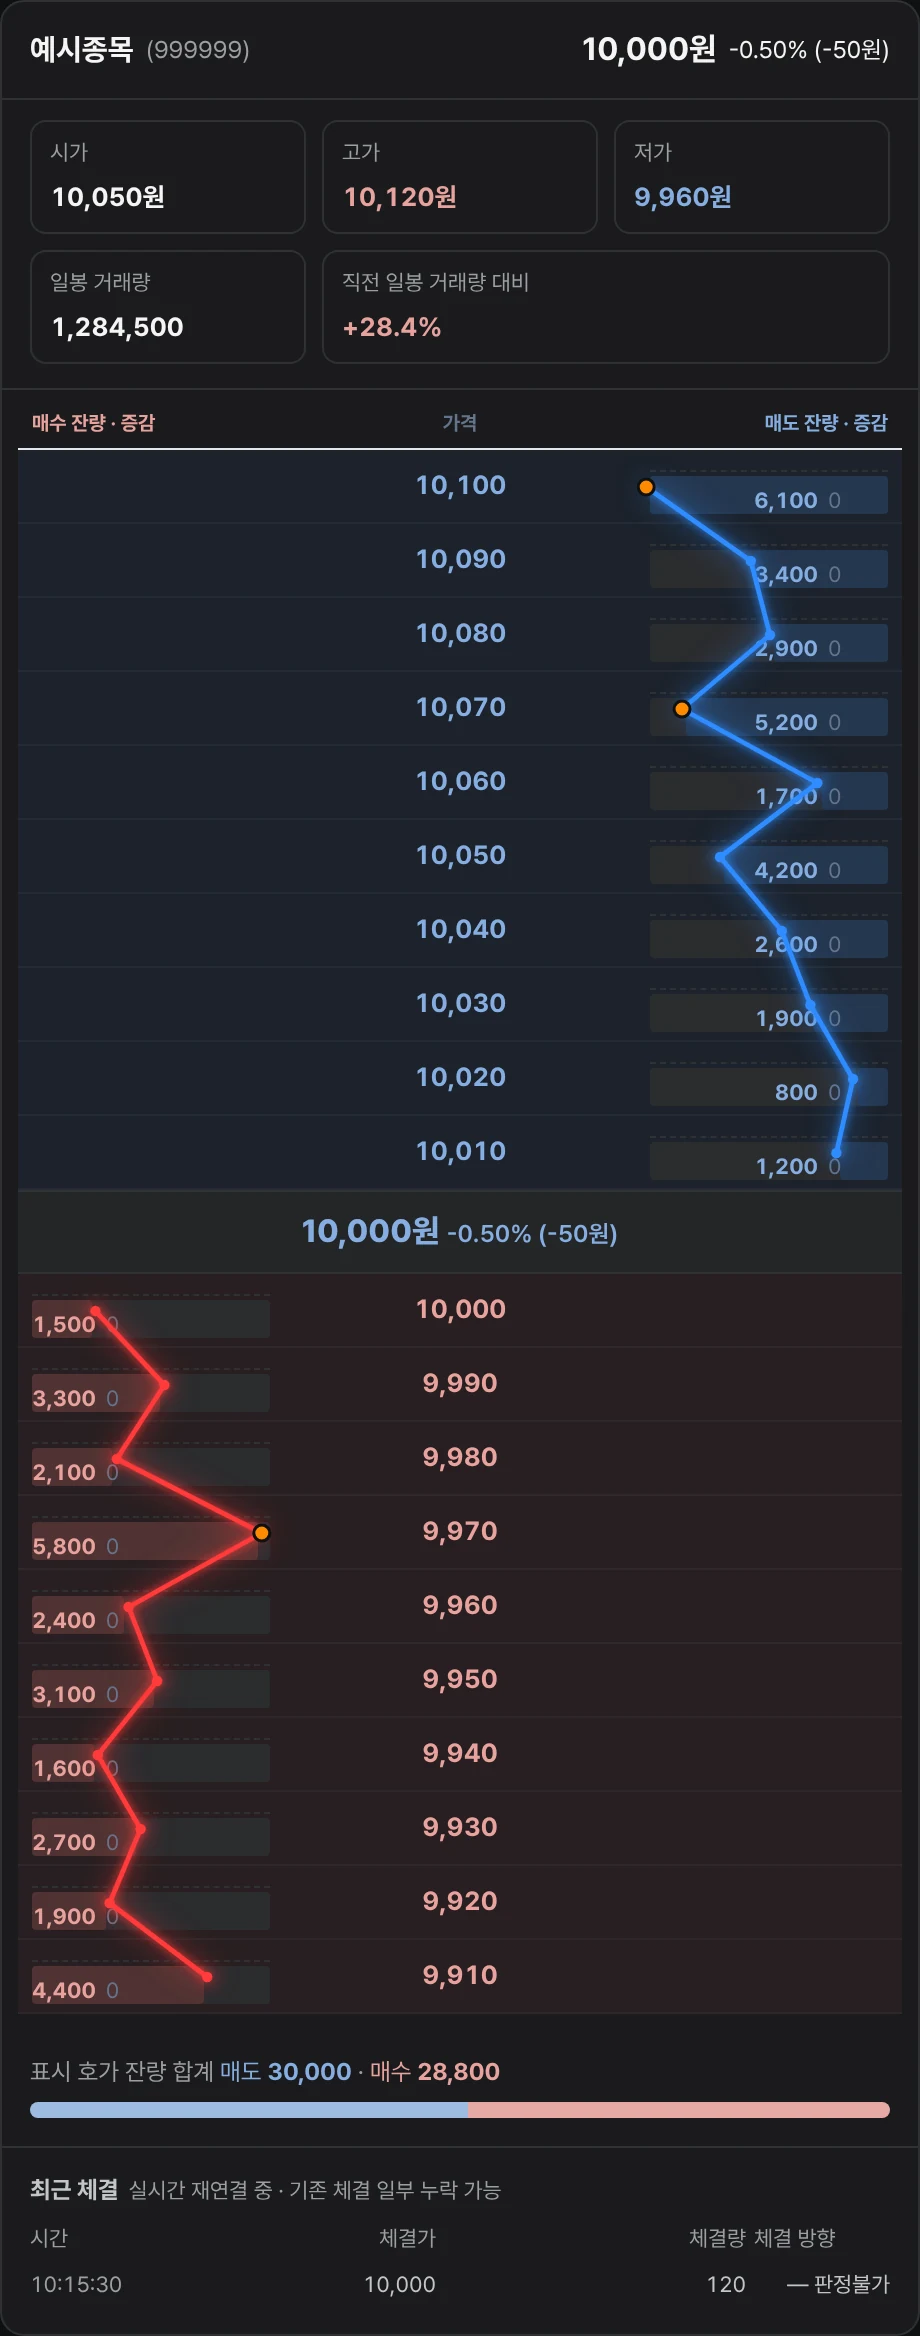
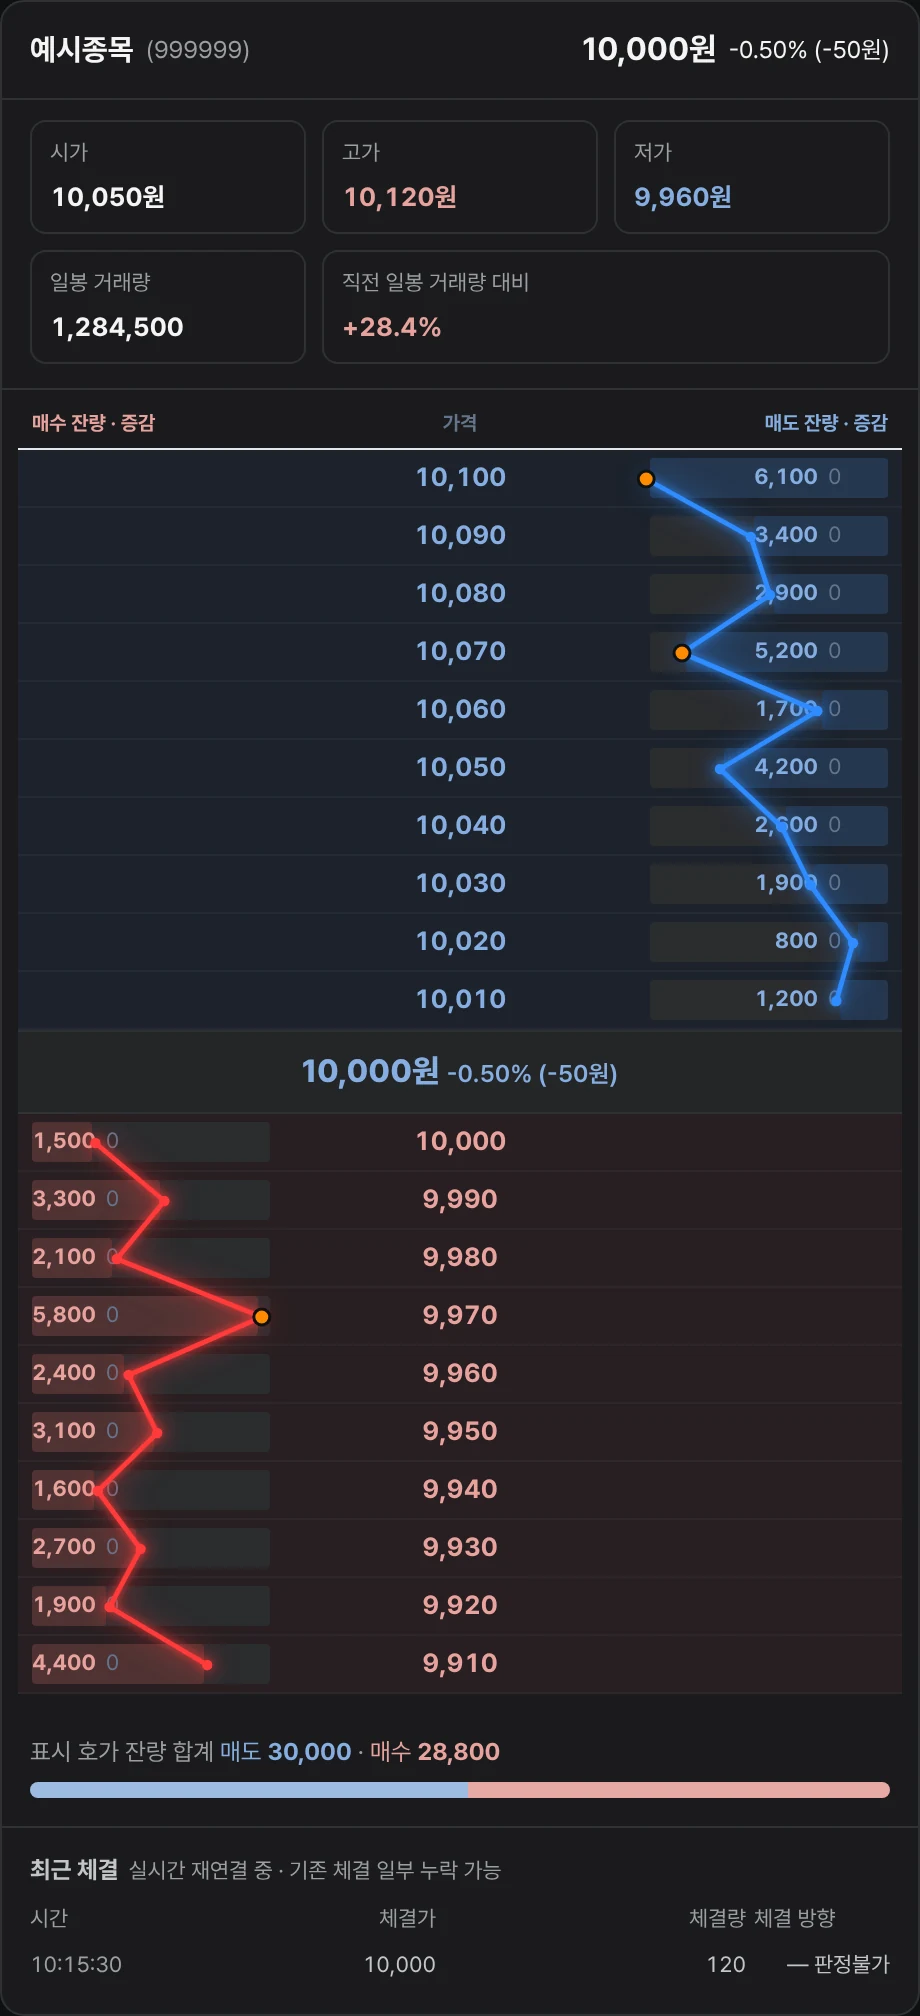
호가창 '호가 두께' 상자 겹침 수정 (클래스 이름 충돌) (#1353)
* Fix dark-mode inverted tabs and up/down colors, tidy mobile spacing

Claude-Session: https://claude.ai/code/session_01L4pyzPqwUuuoA1mfACRCny

* Align weekend countdown test with Monday 06:00 domestic switch

Claude-Session: https://claude.ai/code/session_01L4pyzPqwUuuoA1mfACRCny

* Restore dark up/down colors missed by blanket text rule; revert swing value override

Claude-Session: https://claude.ai/code/session_01L4pyzPqwUuuoA1mfACRCny

* Add order book story page linked from chapter 2

Claude-Session: https://claude.ai/code/session_01L4pyzPqwUuuoA1mfACRCny

* Use the site's real order book screen in the order book story

Claude-Session: https://claude.ai/code/session_01L4pyzPqwUuuoA1mfACRCny

* Fix order book depth box collapsing over the ladder (class name clash)

Claude-Session: https://claude.ai/code/session_01L4pyzPqwUuuoA1mfACRCny

---------

diff --git a/learn/orderbook.html b/learn/orderbook.html
@@ -49,7 +49,7 @@ body.learn-page .legal-wrap { max-width: 920px; margin: 0 auto; }
     <a href="../img/learn-orderbook-real.webp" target="_blank" rel="noopener" aria-label="이 사이트 호가창 화면 크게 보기 (새 창)">
       <picture>
         <source srcset="../img/learn-orderbook-real-dark.webp" media="(prefers-color-scheme: dark)" />
-        <img src="../img/learn-orderbook-real.webp" width="460" height="1168" loading="lazy" decoding="async" style="max-width:460px;margin:0 auto;display:block" alt="이 사이트 호가창 화면에 예시 숫자를 넣은 모습. 위쪽 매도호가 10칸(10,100원부터 10,010원), 가운데 현재가 10,000원, 아래쪽 매수호가 10칸(10,000원부터 9,910원). 매도1호가 10,010원 1,200주, 매수1호가 10,000원 1,500주, 표시 호가 잔량 합계 매도 30,000주·매수 28,800주, 맨 아래 최근 체결 목록" />
+        <img src="../img/learn-orderbook-real.webp" width="460" height="1008" loading="lazy" decoding="async" style="max-width:460px;margin:0 auto;display:block" alt="이 사이트 호가창 화면에 예시 숫자를 넣은 모습. 위쪽 매도호가 10칸(10,100원부터 10,010원), 가운데 현재가 10,000원, 아래쪽 매수호가 10칸(10,000원부터 9,910원). 매도1호가 10,010원 1,200주, 매수1호가 10,000원 1,500주, 표시 호가 잔량 합계 매도 30,000주·매수 28,800주, 맨 아래 최근 체결 목록" />
       </picture>
     </a>
     <figcaption>이 사이트의 호가창 화면에 <b>예시 숫자</b>를 넣어 그대로 찍었다. 실제 시세가 아니며, 종목명도 예시다. 잔량 옆 꺾은선은 칸마다 잔량을 이은 모양이고, 주황 점은 다른 칸보다 크게 쌓인 칸이다. <b>그림을 누르면 크게 볼 수 있다.</b></figcaption>

diff --git a/css/order-book.css b/css/order-book.css
@@ -671,7 +671,8 @@ html.dark :is(#order-book, #usStocksOrderbook) .ob-spread { background: #29313b;
 }
 
 /* 호가 두께(2026-11-27): 1% 호가잔량 금액과 깊이비율. 색은 매도=파랑·매수=빨강 의미색만 쓴다. */
-#order-book .ob-depth:not(:empty) { margin-top: 8px; padding-top: 8px; border-top: 1px dashed var(--ui-rule, #eee); font-size: 12px; }
+/* 호가 두께 상자(#obDepth). 2026-11-28: 예전 이름 .ob-depth가 호가 행의 잔량 칸과 같아 상자가 24px로 눌려 호가표 위에 겹치고, 행마다 점선이 생겼다 → .ob-depth-box로 분리. */
+#order-book .ob-depth-box:not(:empty) { margin-top: 8px; padding-top: 8px; border-top: 1px dashed var(--ui-rule, #eee); font-size: 12px; }
 #order-book .ob-depth-head { display: flex; flex-wrap: wrap; align-items: baseline; gap: 2px 8px; margin-bottom: 6px; }
 #order-book .ob-depth-head small, #order-book .ob-depth-n, #order-book .ob-depth-foot { color: var(--ui-muted, #64748b); font-size: 11px; line-height: 1.5; }
 #order-book .ob-depth-grid { display: grid; grid-template-columns: 1fr 1fr; gap: 6px; }
@@ -685,5 +686,5 @@ html.dark :is(#order-book, #usStocksOrderbook) .ob-spread { background: #29313b;
 #order-book .ob-depth-kind { margin-top: 6px; font-weight: 700; }
 #order-book .ob-depth-foot { margin-top: 4px; }
 html.dark #order-book .ob-depth-cell { background: var(--dk-inner); }
-html.dark #order-book .ob-depth:not(:empty) { border-top-color: var(--dk-line); }
+html.dark #order-book .ob-depth-box:not(:empty) { border-top-color: var(--dk-line); }
 @media (max-width: 720px) { #order-book .ob-depth-grid { grid-template-columns: 1fr; } }

diff --git a/js/order-book.js b/js/order-book.js
@@ -174,7 +174,7 @@
       + '<div id="obBookProvenance" class="ob-book-provenance" role="status">호가 출처·수신 시각 확인 중</div>'
       + '<div id="obBreakoutNote" class="ob-breakout-note"></div>'
       + '<div id="obAbnormalBadges" class="ob-abnormal-badges"></div>'
-      + '<div id="obDepth" class="ob-depth"></div>'
+      + '<div id="obDepth" class="ob-depth-box"></div>' // 호가 사다리의 행별 .ob-depth(잔량 칸)와 이름이 겹치지 않게 분리(2026-11-28)
       + '</div>'
       + '<div id="obToast" class="ob-toast"></div>'
       + '<div id="obBoard" class="ob-board"><div class="ob-hint">종목을 검색해서 호가창을 확인해보세요.</div></div>'

diff --git a/docs/WORK_HISTORY.md b/docs/WORK_HISTORY.md
@@ -1,3 +1,9 @@
+## 2026-11-28 호가창 '호가 두께' 상자 겹침 수정
+- 목적: 사용자 요청(호가 두께 상자가 호가표 위로 겹침).
+- 원인: 2026-11-27 추가한 상자 `#obDepth`의 클래스 `.ob-depth`가 호가 행 잔량 칸(`.ob-depth`, height 24px·flex)과 같아 상자가 24px로 눌려 내용이 호가표 위로 넘쳤고, 반대로 상자용 `#order-book .ob-depth:not(:empty)`(점선·여백)가 모든 행 잔량 칸에 붙어 행마다 점선이 생기고 행이 길어졌다.
+- 변경: `js/order-book.js` 상자 클래스를 `.ob-depth-box`로, `css/order-book.css` 상자 규칙 2개도 `.ob-depth-box`로. 행 잔량 칸 규칙은 그대로. 주식 이야기 호가창 그림(`img/learn-orderbook-real*.webp`)도 수정 화면으로 다시 찍고 크기 속성 갱신.
+- 검증: 같은 예시 데이터로 사이트 실제 order-book.js 렌더 전후 비교(겹침·행 점선 사라짐). order_book 관련 테스트 중 depth_visibility·test_order_book.py·us_orderbook·learn 통과, wall-evidence·trade_direction·stock_search_orderbook_layout 3건은 변경 전 master에서도 같은 실패(기존 문제). 운영 장중 화면은 미확인.
+
 ## 2026-11-28 주식 이야기 '호가창 이야기, 기본부터 깊게' 추가
 - 목적: 사용자 요청(주식 이야기 안 적절한 곳에 호가창을 그림으로 기본부터 심화까지 직접 작성). 본편은 차례+7장 유지 규칙(test_learn_plain_style)에 따라 2장의 이어 읽기 독립 페이지로 둔다.
 - 변경: `learn/orderbook.html` 신규(호가창 해부·상대 호가를 먹는 가격 이동·체결과 취소·5천만원 두께와 1% 깊이비율·잔량 쏠림의 단순/역상 해석·매물벽과 허수·동시호가와 시간외 잔량·다섯 가지 질문·사이트 배지 대응표·퀴즈 4·심화 연구실(OFI, 카일 람다, 대기열, 회복력, 검증 설계)), SVG 그림 7장(예시 숫자). `learn/order.html` 1절 끝 이어 읽기 문단과 하단 탐색 링크, `learn/index.html` 2장 소개에 이어 읽기 링크, `data/learn-search.js` 재생성. 홈 푸터 이야기 카드(21개 고정 테스트)는 변경하지 않음.
